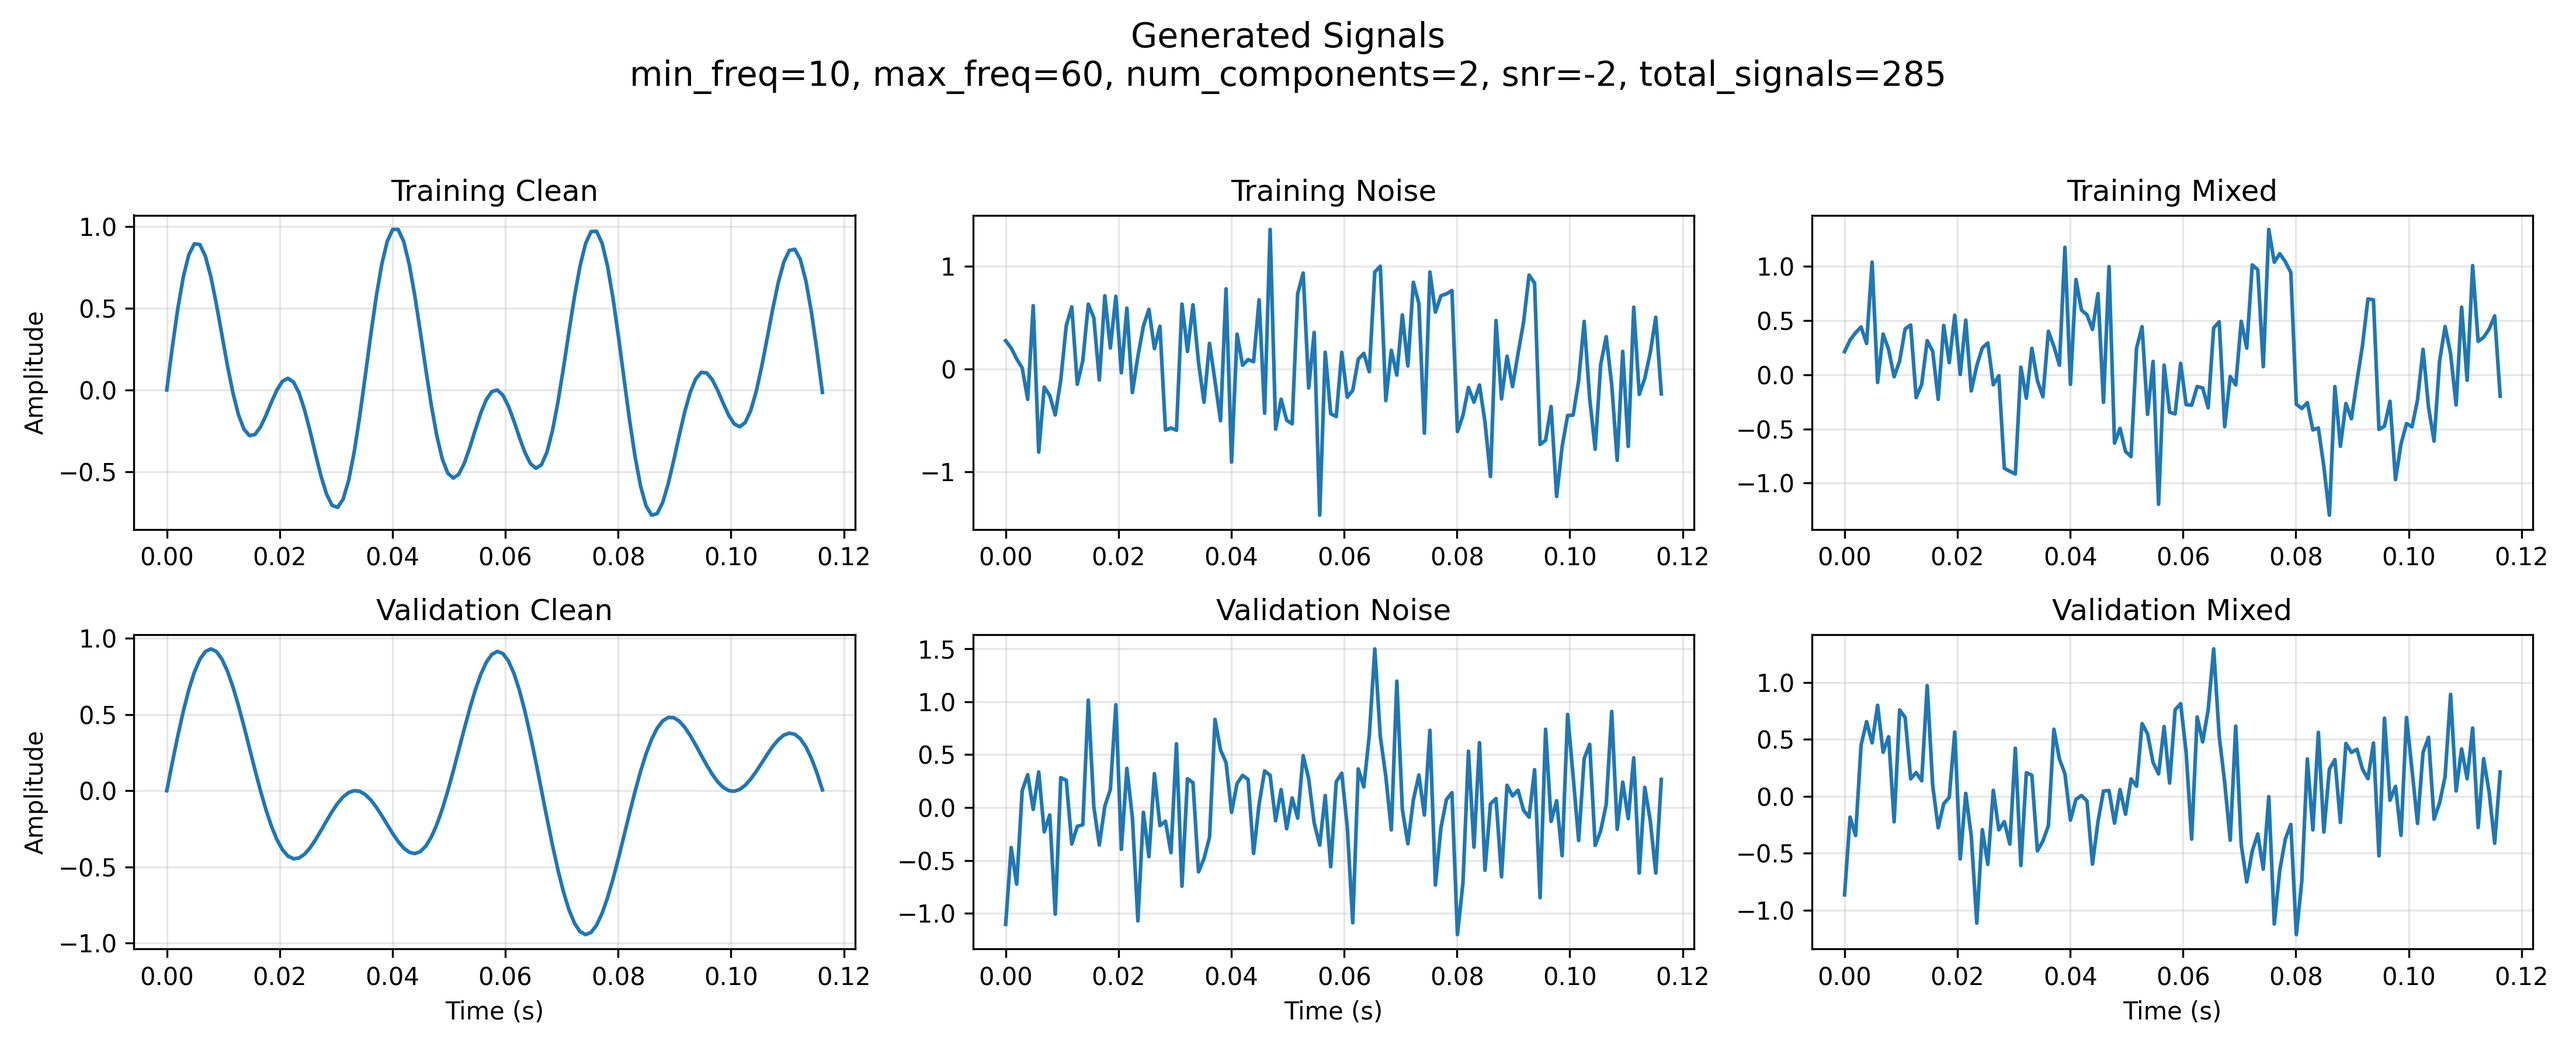
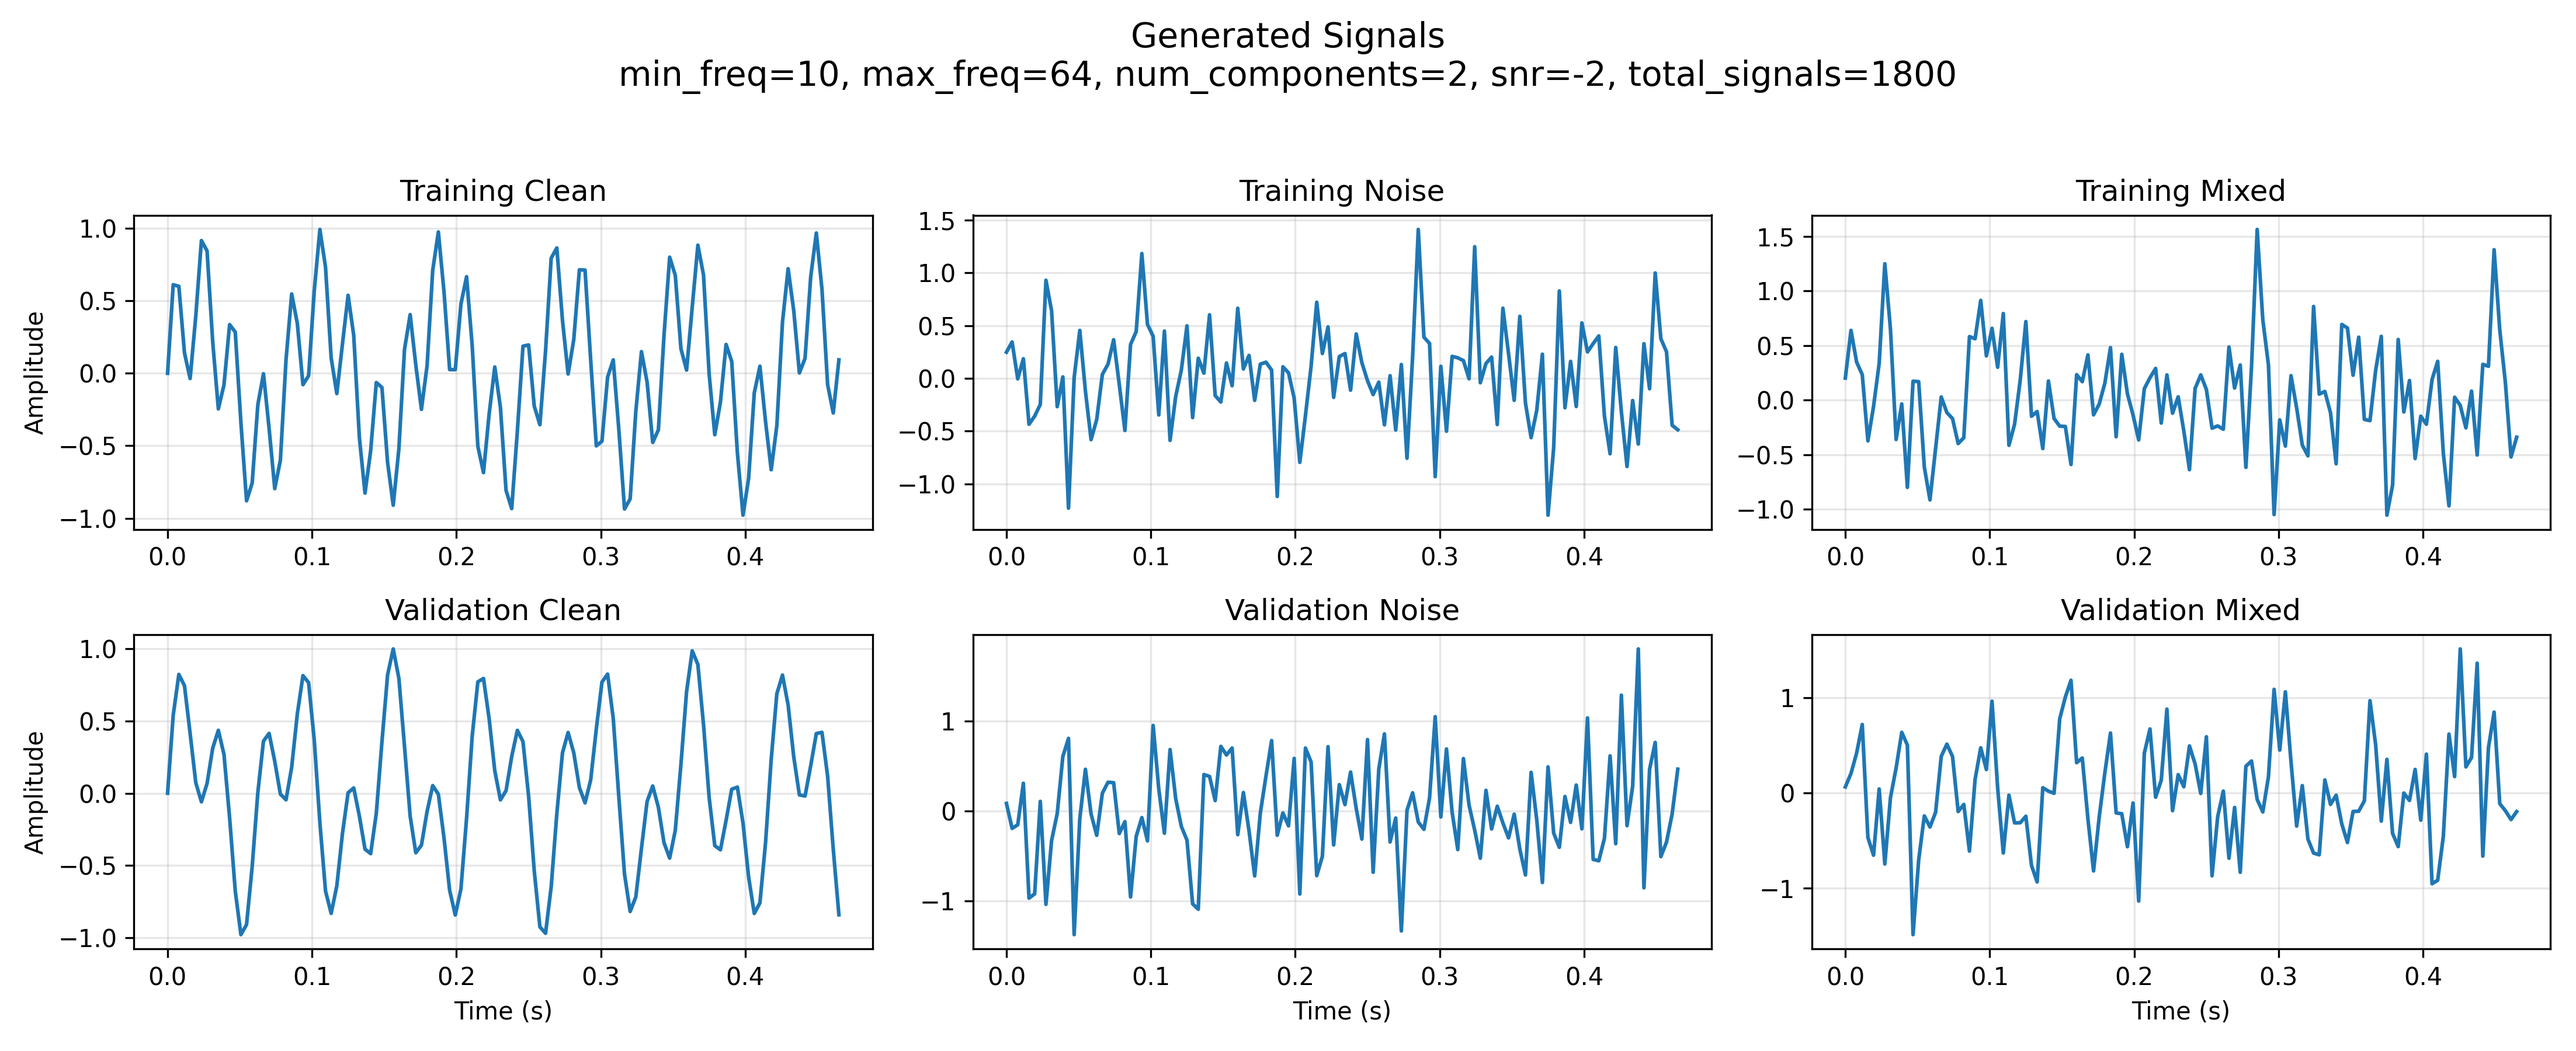
retrained and finetuned parameters; model lighter weight; input 256 samples/sec; adjusted readme image sizes

diff --git a/src/train_gan.py b/src/train_gan.py
@@ -32,7 +32,8 @@ def train_gan(
     max_epochs=100,
     patience=20,
     batch_size=16,
-    lr=1e-4,
+    gen_lr=1e-4,
+    dec_lr=1e-4,
     gamma=1,
     rho=3,
     delta=1,
@@ -62,8 +63,8 @@ def train_gan(
     )
 
     # Hyperparams
-    gen_optimizer = torch.optim.Adam(generator.parameters(), lr=lr)
-    disc_optimizer = torch.optim.Adam(discriminator.parameters(), lr=lr)
+    gen_optimizer = torch.optim.Adam(generator.parameters(), lr=gen_lr)
+    disc_optimizer = torch.optim.Adam(discriminator.parameters(), lr=dec_lr)
     # TODO: Activate schedulers for decreasing learning rate
     gen_scheduler = StepLR(gen_optimizer, step_size=50, gamma=.5)
     disc_scheduler = StepLR(disc_optimizer, step_size=25, gamma=.5)
@@ -180,21 +181,22 @@ def main() :
 
     train_gan(
         # Generator params
-        num_enc_filters=12,
-        num_dec_filters=24,
-        num_upsamples_and_downsamples=3,
+        num_enc_filters=6,
+        num_dec_filters=16,
+        num_upsamples_and_downsamples=2,
         # Discriminator params
         num_filters=2,
         num_convolutions=2,
-        num_fc_units=12,
+        num_fc_units=8,
         # Training hyperparams
-        max_epochs=200,
+        max_epochs=300,
         patience=50,
-        batch_size=25,
-        lr=5e-4,
-        gamma=1,
-        rho=3,
-        delta=1,
+        batch_size=50,
+        gen_lr=5e-4,
+        dec_lr=1e-4,
+        gamma=3,
+        rho=9,
+        delta=2,
         signal_length=256,
     )
 

diff --git a/src/utils/utils.py b/src/utils/utils.py
@@ -370,7 +370,7 @@ def resample_and_write(signal, name, duration=1., output_dir="data/resampled") :
     write(output_file, target_sample_rate, resampled_noise_int16)
 
     
-def apply_lowpass_filter(audio_signal, sr=256, passband_freq=64, stopband_freq=100, 
+def apply_lowpass_filter(audio_signal, sr=256, passband_freq=64, stopband_freq=90, 
                         passband_ripple=0.05, stopband_attenuation=60):
     """
     Apply a Butterworth lowpass filter to an audio signal.

diff --git a/src/utils/discriminator_utils.py b/src/utils/discriminator_utils.py
@@ -141,6 +141,8 @@ def train_epoch(discriminator, generator, tr_loader, optimizer):
         # Calculate loss between model prediction and true labels (1 for clean)
         disc_loss = _discriminator_loss(discriminator_denoised_out, discriminator_clean_out)
 
+        disc_loss *= discriminator.delta
+
         # Perform backward pass and optimizer step
         disc_loss.backward()
         optimizer.step()

diff --git a/src/models/discriminator.py b/src/models/discriminator.py
@@ -25,7 +25,7 @@ class Discriminator(nn.Module):
         num_filters: int = 64,
         filter_size: int = 32,
         stride: int = 2,
-        leakiness: float = 0.05,
+        leakiness: float = 0.01,
         num_fc_layers: int = 2,  # Number of fully connected layers
         fc_units: int = 128,     # Number of units in the fully connected layers
         delta=1,

diff --git a/src/models/generator.py b/src/models/generator.py
@@ -29,7 +29,7 @@ class DenoisingAE(nn.Module):
         stride: int = 2,
         num_downsamples: int = 5,
         num_upsamples: int = 5,
-        leakiness: float = 0.05,
+        leakiness: float = 0.1,
         gamma=1,
         rho=1,
     ):

diff --git a/src/create_data.py b/src/create_data.py
@@ -333,7 +333,7 @@ def main():
         max_freq=64,
         num_sine_components=2,
         snr=-2,
-        total_signals=900,
+        total_signals=1800,
         tr_split=(8/9), 
         val_split=(1/9),
     )

diff --git a/readme.md b/readme.md
@@ -35,7 +35,7 @@ This is where created noise, sine, and mixed (noise + sine) signals will be stor
 Run create_data.py
 This should result in folders being filled with data, and displaying plots for a random signal from each folder.
 Signals should be displayed as follows (different of course, since they are randomly generated)
-![Created Data](images/archive/created_data.png)
+<img src="images/architecture/generator.png" alt="Generator" width="500"/>
 
 Then run dataset.py to verify that everything is working properly (this won't actually do anything to memory)
 
@@ -51,30 +51,32 @@ Consists of 2 models:
 
 ### Generator
 
-The Generator is an autoencoder based strongly off of [this article](https://www.mathworks.com/help/signal/ug/denoise-signals-with-generative-adversarial-networks.html) by Mathworks. It is tasked with taking as input a noisy signal and outputting a denoised version of that signal.
+The Generator is an autoencoder based strongly off of [this article by Mathworks](https://www.mathworks.com/help/signal/ug/denoise-signals-with-generative-adversarial-networks.html). It is tasked with taking as input a noisy signal and outputting a denoised version of that signal.
 
-![Generator](images/architecture/generator.png)
+<img src="images/architecture/generator.png" alt="Generator" width="300"/>
 
 ### Discriminator
 
 The Discriminator is tasked with distinguishing clean signals apart from faux clean signals (denoised signals produced by the generator). 
 
-![Discriminator](images/architecture/discriminator.png)
+<img src="images/architecture/discriminator.png" alt="Discriminator" width="300"/>
 
 ### Training
 
 The Discriminator is trained in classic GAN fashion, using the BCE loss between clean signals and denoised signals.
 
-The Generator, however, is trained on a hybrid loss function. It uses adversarial loss, just as so in a standard GAN, but also reconstruction loss. The adversarial loss is just BCE loss upon how well it "fools" the discriminator. The reconstruction loss is the L1 Norm between the clean signal and the generated denoised signal. 
+The Generator, however, is trained on a hybrid loss function. It uses adversarial loss, just as so in a standard GAN, but also reconstruction loss. The adversarial loss is just BCE loss upon how well it "fools" the discriminator. The reconstruction loss is the L1 Norm between the clean signal and the generated denoised signal. [Here is another Mathworks article](https://www.mathworks.com/help/signal/ug/signal-denoising-using-adversarial-learning-denoiser-model.html#DenoiseSignalsWithAdversarialDenoiserModelExample-1) which strongly incorporates this logic.
 
-![Training Process](images/architecture/training.png)
+
+
+<img src="images/architecture/training.png" alt="Training Process" width="600"/>
 
 ### Example
 
 Training on the same dataset from the created data example above, we see the following performance and generator results:
-![Models Training](images/archive/performance_plot.png)
-![Denoiser Output Example 1](images/archive/denoised_against_lowpass_01.png)
-![Denoiser Output Example 2](images/archive/denoised_against_lowpass_02.png)
+<img src="images/archive/performance_plot.png" alt="Models Training" width="600"/>
+<img src="images/archive/denoised_against_lowpass_01.png" alt="Denoiser Output Example 1" width="600"/>
+<img src="images/archive/denoised_against_lowpass_02.png" alt="Denoiser Output Example 2" width="600"/>
 
 As we see, the lowpass filter clearly excels at removing high-frequency-noise -- it's in it's name. However, he generator denoiser is capable of removing both high-frequency-noise and low-frequency-noise, that which falls in the range of the sine waves. When training a generator with more filters, a deeper autoencoder, and a stronger discriminator, we expect these effects to only heighten.
 
